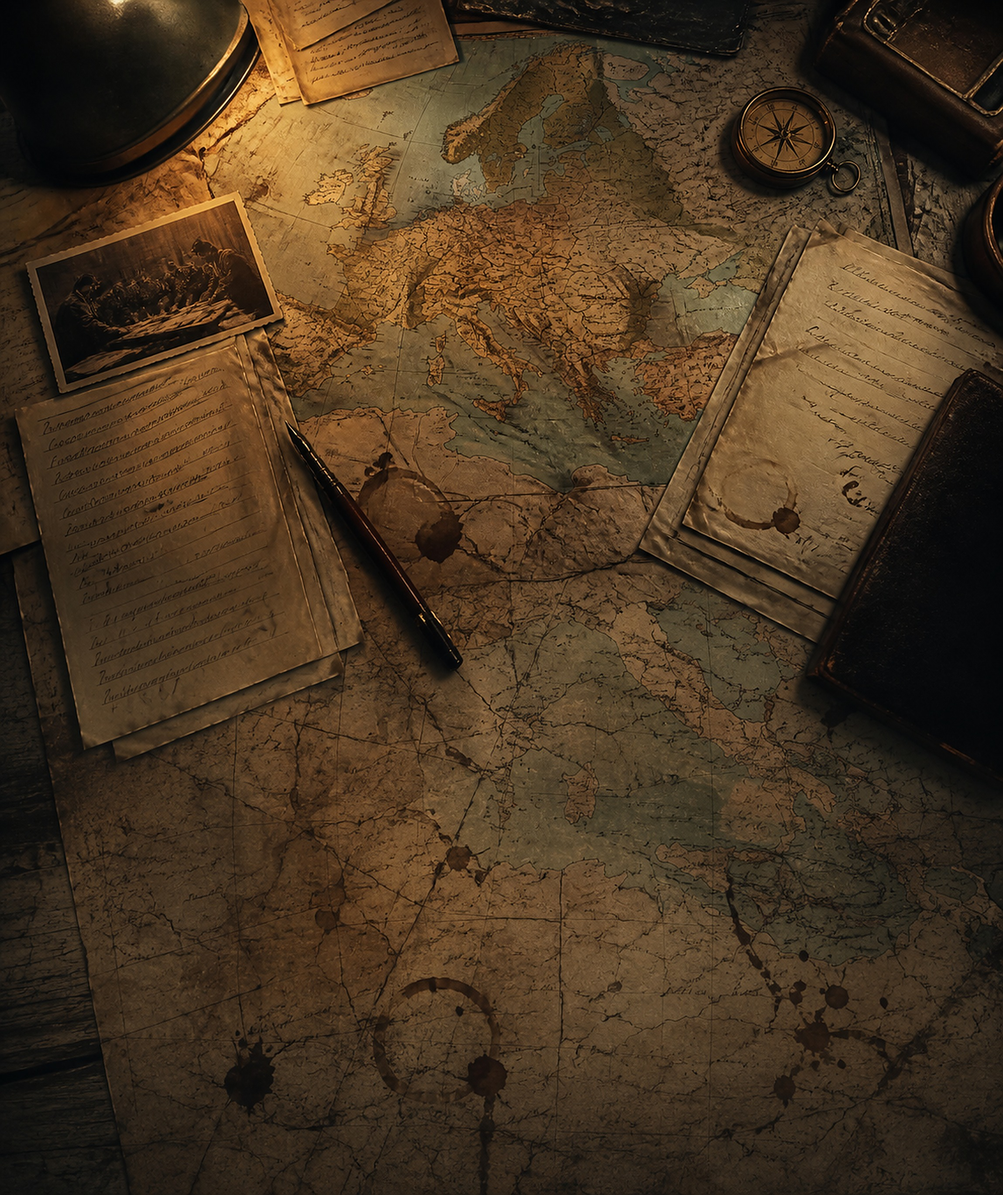
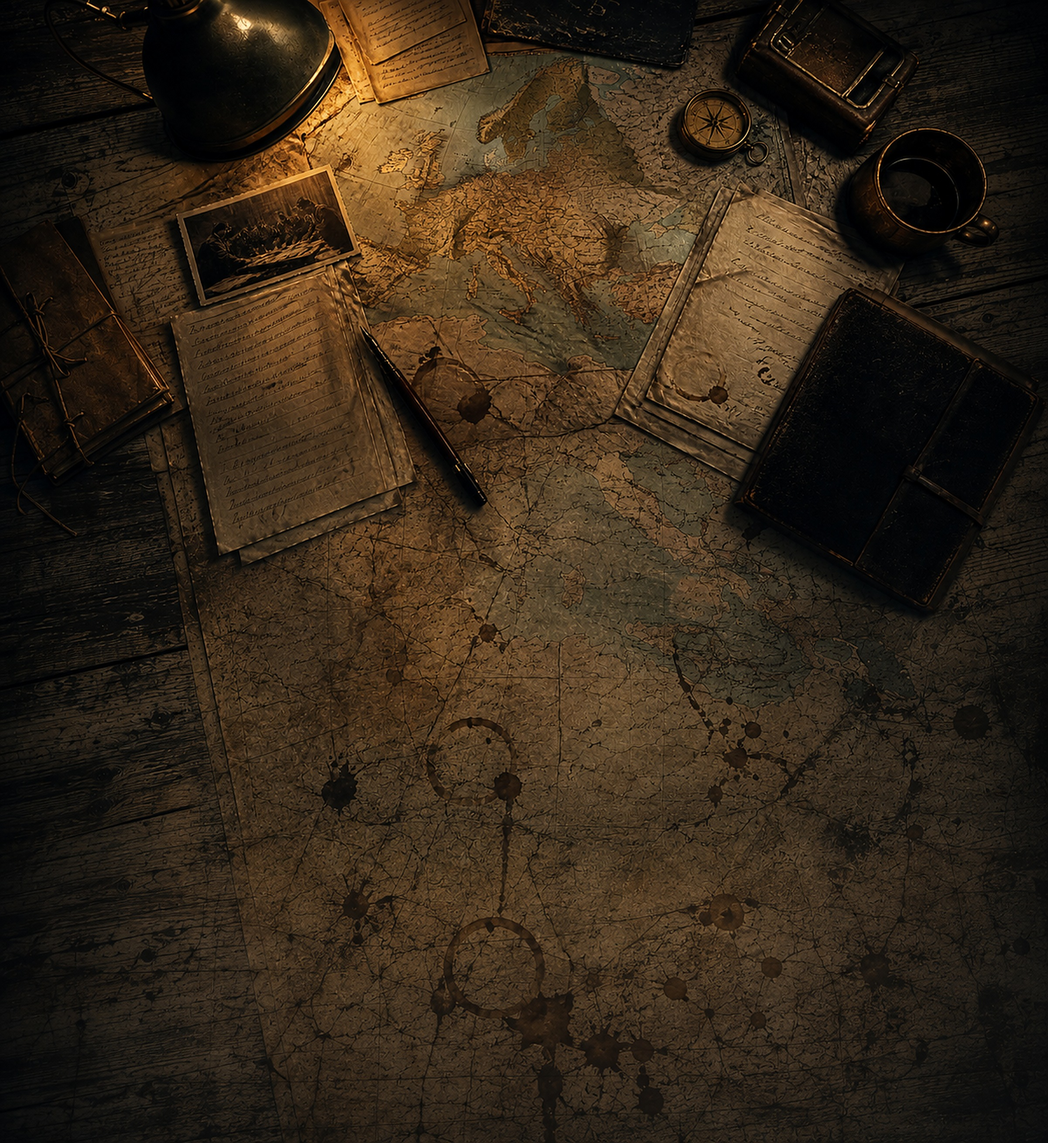
Polish menu backdrop, transition sync, and aged-document detailing
- Swap in the wider replacement desk photo (needs less horizontal upscale
  to cover typical viewports than the taller alternative) and drop the
  CSS zoom entirely — display it at plain cover scale, since zooming a
  ~1200px source past 100% was what was softening it.
- Sync the menu content's scroll speed to the backdrop: measure the
  photo's actual on-screen pan delta each frame and apply that exact
  pixel offset to the logo/cards, instead of an unrelated hardcoded vh
  value that drifted at its own rate.
- Swap in the transparent title logo (no white box) and size it up.
- Clear the corner rivets away from the header/footer text (was
  overlapping "Department of Military Operations" and the file code).
- Mute the primary button from a bright gold gradient to a dulled,
  paper-textured brass, and give the back button the same aged treatment.
- Add faint ink-stain blotches to the dossier frame for a worn-document feel.

diff --git a/src/menu/menu.css b/src/menu/menu.css
@@ -24,14 +24,15 @@
 .ifm button { font: inherit; color: inherit; }
 
 /* ---------- backdrop ----------
-   The desk photo is the transition: on the menu it's zoomed into the top
-   (lamp, letters, compass), and opening a dossier pans/zooms it down like a
-   camera settling onto the map, driven frame-by-frame from menu.ts so it
-   shares the same single clock as the rest of the choreography. */
+   The desk photo is the transition: it sits at plain cover scale (no extra
+   zoom — that just softens it) framed on the top of the desk at rest, and
+   opening a dossier pans it down like a camera settling onto the map,
+   driven frame-by-frame from menu.ts so it shares the same single clock as
+   the rest of the choreography. */
 .ifm__backdrop { position: absolute; inset: 0; z-index: 0; overflow: hidden; }
 .ifm__map {
   position: absolute; inset: -8%;
-  background: url('/menu/desk-scene.jpg') center 6%/132% auto no-repeat;
+  background: url('/menu/desk-scene.jpg') center top/cover no-repeat;
   filter: brightness(.86) saturate(.92) contrast(1.02);
 }
 .ifm__wash {
@@ -49,8 +50,8 @@
 .ifm__screen { position: absolute; inset: 0; z-index: 2; overflow: auto; display: flex; flex-direction: column; align-items: center; justify-content: center; gap: 3.2vh; padding: 3vh 3vw; }
 .ifm__screen[hidden] { display: none; }
 
-.ifm__logo { display: flex; flex-direction: column; align-items: center; pointer-events: none; }
-.ifm__logo img { display: block; width: min(30vw, 460px); height: auto; filter: drop-shadow(0 8px 20px rgba(0,0,0,.6)); }
+.ifm__logo { display: flex; flex-direction: column; align-items: center; margin-top: -3vh; pointer-events: none; }
+.ifm__logo img { display: block; width: min(36vw, 560px); height: auto; filter: drop-shadow(0 8px 20px rgba(0,0,0,.6)); }
 .ifm__eyebrow { margin-top: -.6vh; display: flex; align-items: center; gap: 12px; color: rgba(201,164,99,.75); }
 .ifm__eyebrow span { width: 44px; height: 1px; background: linear-gradient(90deg, transparent, var(--hud-line-bright)); }
 .ifm__eyebrow span:last-child { background: linear-gradient(270deg, transparent, var(--hud-line-bright)); }
@@ -149,20 +150,31 @@
 .ifm__file::before { top: -5px; }
 .ifm__file::after { bottom: -5px; }
 .ifm__file-corner {
-  position: absolute; width: 30px; height: 30px; z-index: 1;
+  position: absolute; width: 26px; height: 26px; z-index: 1;
   background: url('/menu/kit/corner-fastener.png') center/contain no-repeat;
   mix-blend-mode: screen; opacity: .85; pointer-events: none;
 }
-.ifm__file-corner--tl { top: -6px; left: -6px; }
-.ifm__file-corner--tr { top: -6px; right: -6px; transform: scaleX(-1); }
-.ifm__file-corner--bl { bottom: -6px; left: -6px; transform: scaleY(-1); }
-.ifm__file-corner--br { bottom: -6px; right: -6px; transform: scale(-1, -1); }
+.ifm__file-corner--tl { top: -9px; left: -9px; }
+.ifm__file-corner--tr { top: -9px; right: -9px; transform: scaleX(-1); }
+.ifm__file-corner--bl { bottom: -9px; left: -9px; transform: scaleY(-1); }
+.ifm__file-corner--br { bottom: -9px; right: -9px; transform: scale(-1, -1); }
+.ifm__file-grunge {
+  position: absolute; inset: 0; z-index: 0; pointer-events: none;
+  background:
+    radial-gradient(circle at 5% 92%, rgba(120,84,34,.32) 0%, rgba(120,84,34,.1) 6%, transparent 11%),
+    radial-gradient(circle at 96% 6%, rgba(120,84,34,.26) 0%, rgba(120,84,34,.08) 5%, transparent 10%),
+    radial-gradient(circle at 70% 97%, rgba(120,84,34,.2) 0%, transparent 8%),
+    radial-gradient(circle at 26% 3%, rgba(120,84,34,.16) 0%, transparent 7%),
+    radial-gradient(circle at 55% 55%, rgba(120,84,34,.08) 0%, transparent 30%);
+}
 .ifm__file-header {
   flex: 0 0 auto; position: relative; display: grid; grid-template-columns: auto 1fr auto; gap: 1.2em; align-items: center;
-  padding: 1.3em 1.6em; border-bottom: 1px solid var(--hud-line);
+  padding: 1.3em 2.3em; border-bottom: 1px solid var(--hud-line);
 }
 .ifm__back {
-  padding: .7em 1em; border: 1px solid var(--hud-line); background: transparent; cursor: pointer; color: var(--hud-text-dim);
+  padding: .7em 1em; border: 1px solid var(--hud-line); cursor: pointer; color: var(--hud-text-dim);
+  background: linear-gradient(180deg, rgba(255,255,255,.03), rgba(0,0,0,.1)), url('/menu/paper.jpg') center/cover;
+  background-blend-mode: multiply;
   font: 700 .68em/1 var(--ifm-sans); letter-spacing: .1em; text-transform: uppercase; transition: border-color .2s ease, color .2s ease;
 }
 .ifm__back:hover { border-color: var(--hud-line-bright); color: var(--hud-text); }
@@ -233,10 +245,13 @@
 .ifm__briefing-grid b.is-risk-low { color: #9ec79a; }
 
 .ifm__primary {
-  margin-top: .4em; display: inline-flex; align-items: center; justify-content: space-between; gap: .8em; padding: .9em 1em;
-  border: 1px solid var(--hud-gold-bright); background: linear-gradient(180deg, #d8b56d, #ad833c); color: #1a130a; cursor: pointer;
+  margin-top: .4em; display: inline-flex; align-items: center; justify-content: space-between; gap: .8em; padding: .9em 1.1em;
+  border: 1px solid rgba(158, 118, 62, .75);
+  background: linear-gradient(180deg, #b6905c, #7d5f37), url('/menu/paper.jpg') center/cover;
+  background-blend-mode: multiply;
+  color: #241a0d; cursor: pointer;
   font: 700 .75em/1 var(--ifm-sans); letter-spacing: .12em; text-transform: uppercase; transition: filter .2s ease;
 }
-.ifm__primary:hover { filter: brightness(1.08); }
-.ifm__doc-footer { flex: 0 0 auto; position: relative; display: flex; justify-content: space-between; padding: .8em 1.6em; border-top: 1px solid var(--hud-line); color: var(--hud-text-dim); font: 600 .56em/1 var(--ifm-sans); letter-spacing: .08em; text-transform: uppercase; }
+.ifm__primary:hover { filter: brightness(1.12); }
+.ifm__doc-footer { flex: 0 0 auto; position: relative; display: flex; justify-content: space-between; padding: .8em 2.3em; border-top: 1px solid var(--hud-line); color: var(--hud-text-dim); font: 600 .56em/1 var(--ifm-sans); letter-spacing: .08em; text-transform: uppercase; }
 

diff --git a/src/menu/menu.ts b/src/menu/menu.ts
@@ -8,6 +8,9 @@ export interface MenuHandlers {
 
 const OPEN_DURATION = 1250;
 
+/** Natural aspect (height/width) of public/menu/desk-scene.jpg, for computing its cover-fit pixel size. */
+const MAP_ASPECT = 2620 / 2402;
+
 export function mountMenu(handlers: MenuHandlers): void {
   const root = requiredId<HTMLElement>('menu-root');
   const brand = document.querySelector<HTMLElement>('.brand');
@@ -20,20 +23,26 @@ export function mountMenu(handlers: MenuHandlers): void {
 
   /**
    * One update() drives every sub-motion from the same t (0=on the menu,
-   * 1=dossier open). The desk photo pans/zooms down like a camera settling
-   * onto the map; the logo and cards are treated as sitting on that same
-   * desk, so they scroll straight up and off with the same pan progress
-   * instead of fading or blurring in place.
+   * 1=dossier open). The desk photo pans down (no extra zoom — the source
+   * is already at cover-fit scale, and zooming further just softens it).
+   * The logo/cards are measured to move by the exact same pixel amount the
+   * backdrop's visible window shifts, so they read as scrolling with the
+   * desk rather than drifting at their own independent speed.
    */
   function update(t: number): void {
     const panT = smooth(phase(t, 0, 0.92));
     const inT = smooth(phase(t, 0.45, 1));
 
-    map.style.backgroundPosition = `center ${6 + panT * 56}%`;
-    map.style.backgroundSize = `${132 - panT * 20}% auto`;
+    const box = map.getBoundingClientRect();
+    const renderedHeight = box.width * MAP_ASPECT;
+    const excess = Math.max(0, renderedHeight - box.height);
+    const posY = panT * 62;
+    const offsetPx = excess * (posY / 100);
+
+    map.style.backgroundPosition = `center ${posY.toFixed(2)}%`;
     map.style.filter = `brightness(${(.86 + panT * .09).toFixed(3)}) saturate(.92) contrast(1.02)`;
 
-    main.style.transform = `translateY(${(panT * -72).toFixed(2)}vh)`;
+    main.style.transform = `translateY(${(-offsetPx).toFixed(2)}px)`;
 
     if (transitionFile) {
       transitionFile.style.opacity = String(inT);

diff --git a/index.html b/index.html
@@ -71,6 +71,7 @@
 
         <section class="ifm__subpage" id="ifm-campaign" data-screen="campaign" hidden>
           <article class="ifm__file">
+            <i class="ifm__file-grunge"></i>
             <i class="ifm__file-corner ifm__file-corner--tl"></i><i class="ifm__file-corner ifm__file-corner--tr"></i>
             <i class="ifm__file-corner ifm__file-corner--bl"></i><i class="ifm__file-corner ifm__file-corner--br"></i>
             <header class="ifm__file-header">
@@ -114,6 +115,7 @@
 
         <section class="ifm__subpage" id="ifm-continue" data-screen="continue" hidden>
           <article class="ifm__file">
+            <i class="ifm__file-grunge"></i>
             <i class="ifm__file-corner ifm__file-corner--tl"></i><i class="ifm__file-corner ifm__file-corner--tr"></i>
             <i class="ifm__file-corner ifm__file-corner--bl"></i><i class="ifm__file-corner ifm__file-corner--br"></i>
             <header class="ifm__file-header">
@@ -140,6 +142,7 @@
 
         <section class="ifm__subpage" id="ifm-sandbox" data-screen="sandbox" hidden>
           <article class="ifm__file">
+            <i class="ifm__file-grunge"></i>
             <i class="ifm__file-corner ifm__file-corner--tl"></i><i class="ifm__file-corner ifm__file-corner--tr"></i>
             <i class="ifm__file-corner ifm__file-corner--bl"></i><i class="ifm__file-corner ifm__file-corner--br"></i>
             <header class="ifm__file-header">
@@ -164,6 +167,7 @@
 
         <section class="ifm__subpage" id="ifm-settings" data-screen="settings" hidden>
           <article class="ifm__file">
+            <i class="ifm__file-grunge"></i>
             <i class="ifm__file-corner ifm__file-corner--tl"></i><i class="ifm__file-corner ifm__file-corner--tr"></i>
             <i class="ifm__file-corner ifm__file-corner--bl"></i><i class="ifm__file-corner ifm__file-corner--br"></i>
             <header class="ifm__file-header">
